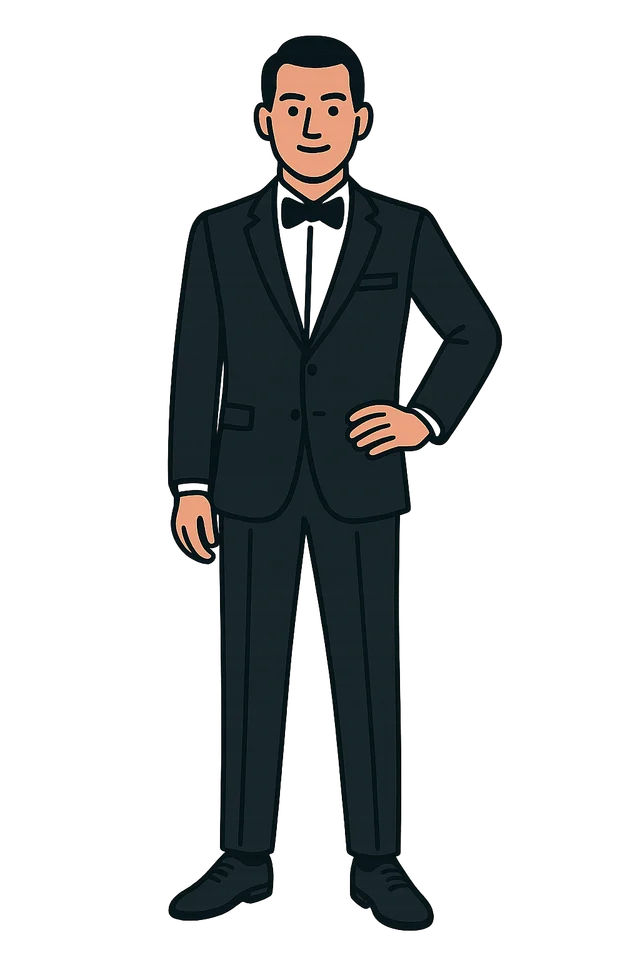
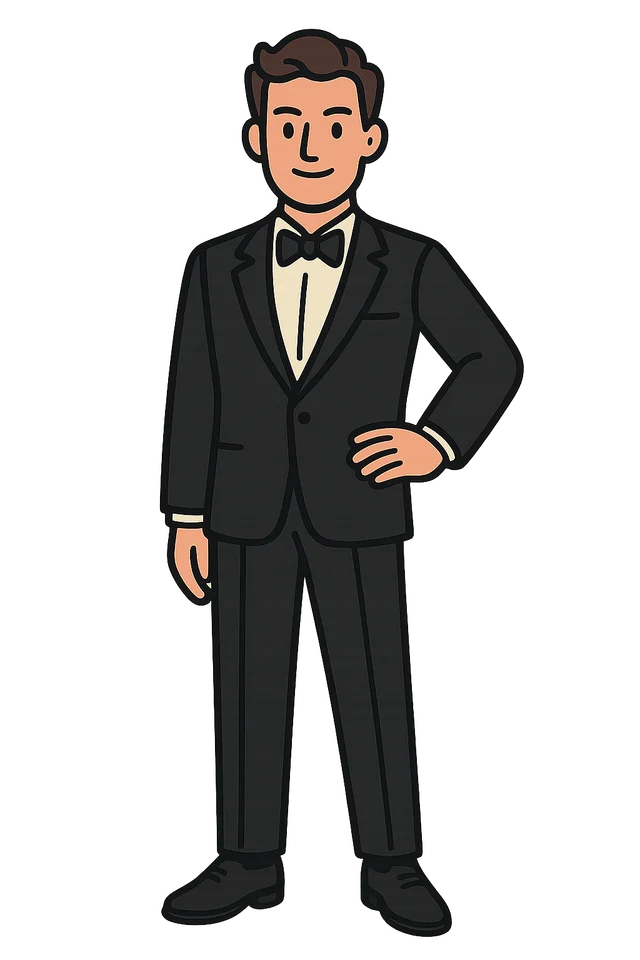
Maisons illustrees par IA + animaux de compagnie, corrige un bug de transparence
Suite du retour utilisateur : maisons dessinees a la main jugees
"trop simples" -> remplacees par des scenes completes generees par IA
(meme pipeline que les looks), richesse clairement croissante (rue
miteuse au dela -> chateau dore avec fontaines). Nouvelle categorie
"Animaux" (chien/chat/lapin/perroquet/dragon legendaire), affiches a
cote du personnage sans le cacher, comme demande explicitement.

Bug reel trouve en verifiant chaque image individuellement (pas
seulement composee dans l'app) : le mode "fond transparent" de
l'API rend aussi transparentes les zones blanches PURES du sujet
lui-meme (t-shirt blanc, chemise de costume, combinaison spatiale),
pas seulement l'arriere-plan - 4 looks sur 10 etaient casses,
invisibles une fois superposes a un fond colore. Corrige en evitant
le blanc pur dans les prompts (gris clair/creme a la place), regle
ajoutee au prompt commun pour les futures generations. Verifie objet
par objet en ouvrant chaque image seule sur fond sombre avant de
considerer le lot bon.

Changed region(s): [[0.25, 0.0312, 0.8438, 1.0], [0.7188, 0.2812, 0.75, 0.3125]]

diff --git a/src/content/shopItems.js b/src/content/shopItems.js
@@ -1,13 +1,13 @@
-// Boutique : looks complets (générés par IA, voir scripts/generate-looks.mjs) + maisons
-// (illustrations dessinées à la main, voir HouseIllustration.jsx). La richesse se montre par
-// le logement (le plus cher du jeu), pas par la tenue.
+// Boutique : looks complets, maisons, animaux de compagnie — tous générés une fois par IA (voir
+// scripts/generate-images.mjs). La richesse se montre par le logement (le plus cher du jeu).
 export const SHOP_CATEGORIES = [
   { key: 'look', label: 'Looks' },
   { key: 'maison', label: 'Maison' },
+  { key: 'pet', label: 'Animaux' },
 ]
 
 export const SHOP_ITEMS = [
-  // Looks (personnage complet, image statique générée une fois)
+  // Looks (personnage complet, fond transparent)
   { id: 'look_base', category: 'look', name: 'Look de base', price: 0, image: '/looks/look_base.webp' },
   { id: 'look_streetwear', category: 'look', name: 'Streetwear urbain', price: 200, image: '/looks/look_streetwear.webp' },
   { id: 'look_sportif', category: 'look', name: 'Sportif', price: 250, image: '/looks/look_sportif.webp' },
@@ -19,13 +19,21 @@ export const SHOP_ITEMS = [
   { id: 'look_royal', category: 'look', name: 'Royal', price: 1500, image: '/looks/look_royal.webp' },
   { id: 'look_legendaire', category: 'look', name: 'Légendaire doré', price: 3000, image: '/looks/look_legendaire.webp' },
 
-  // Maisons (arrière-plan, statut — illustration dans HouseIllustration.jsx)
-  { id: 'house_rue', category: 'maison', name: 'La rue', price: 0 },
-  { id: 'house_chambre', category: 'maison', name: 'Chambre chez un ami', price: 200 },
-  { id: 'house_studio', category: 'maison', name: 'Studio', price: 800 },
-  { id: 'house_appartement', category: 'maison', name: 'Appartement', price: 3000 },
-  { id: 'house_villa', category: 'maison', name: 'Villa', price: 10000 },
-  { id: 'house_chateau', category: 'maison', name: 'Château', price: 50000 },
+  // Maisons (scène complète, fond opaque, sert d'arrière-plan)
+  { id: 'house_rue', category: 'maison', name: 'La rue', price: 0, image: '/houses/house_rue.webp' },
+  { id: 'house_chambre', category: 'maison', name: 'Chambre chez un ami', price: 200, image: '/houses/house_chambre.webp' },
+  { id: 'house_studio', category: 'maison', name: 'Studio', price: 800, image: '/houses/house_studio.webp' },
+  { id: 'house_appartement', category: 'maison', name: 'Appartement', price: 3000, image: '/houses/house_appartement.webp' },
+  { id: 'house_villa', category: 'maison', name: 'Villa', price: 10000, image: '/houses/house_villa.webp' },
+  { id: 'house_chateau', category: 'maison', name: 'Château', price: 50000, image: '/houses/house_chateau.webp' },
+
+  // Animaux de compagnie (fond transparent, affiché à côté du personnage)
+  { id: 'pet_none', category: 'pet', name: 'Aucun', price: 0, image: null },
+  { id: 'pet_dog', category: 'pet', name: 'Chien', price: 200, image: '/pets/pet_dog.webp' },
+  { id: 'pet_cat', category: 'pet', name: 'Chat', price: 200, image: '/pets/pet_cat.webp' },
+  { id: 'pet_rabbit', category: 'pet', name: 'Lapin', price: 250, image: '/pets/pet_rabbit.webp' },
+  { id: 'pet_parrot', category: 'pet', name: 'Perroquet', price: 300, image: '/pets/pet_parrot.webp' },
+  { id: 'pet_dragon', category: 'pet', name: 'Dragon légendaire', price: 2000, image: '/pets/pet_dragon.webp' },
 ]
 
 export function defaultItem(category) {

diff --git a/src/Shop.jsx b/src/Shop.jsx
@@ -1,7 +1,6 @@
 import { useState } from 'react'
 import { SHOP_CATEGORIES, itemsForCategory, getEquipped } from './content/shopItems'
 import AvatarDisplay, { LookImage } from './AvatarDisplay'
-import HouseIllustration from './HouseIllustration'
 
 export default function Shop({ profile, onBuy, onEquip, onExit }) {
   const [category, setCategory] = useState('look')
@@ -33,10 +32,14 @@ export default function Shop({ profile, onBuy, onEquip, onExit }) {
             const canAfford = profile.coins >= item.price
             return (
               <div key={item.id} className="shop-item">
-                {category === 'look' ? (
+                {category === 'maison' ? (
+                  <div className="shop-item-swatch">
+                    {item.image && <img src={item.image} alt={item.name} className="shop-item-house" />}
+                  </div>
+                ) : item.image ? (
                   <LookImage look={item} size={56} />
                 ) : (
-                  <div className="shop-item-swatch"><HouseIllustration id={item.id} /></div>
+                  <div className="shop-item-swatch" />
                 )}
                 <p className="shop-item-name">{item.name}</p>
                 {!isOwned && <p className="shop-item-price">🪙 {item.price}</p>}
@@ -55,7 +58,7 @@ export default function Shop({ profile, onBuy, onEquip, onExit }) {
         </div>
         <button className="link" onClick={onExit}>Retour</button>
         <p className="shop-credit">
-          Looks générés par IA (OpenAI). Illustrations de maison dessinées pour Hablo.
+          Looks, maisons et animaux générés par IA (OpenAI).
         </p>
       </div>
     </div>

diff --git a/src/AvatarDisplay.jsx b/src/AvatarDisplay.jsx
@@ -1,5 +1,4 @@
 import { getEquipped } from './content/shopItems'
-import HouseIllustration from './HouseIllustration'
 
 export function LookImage({ look, size = 96 }) {
   return <img src={look.image} alt={look.name} className="avatar-image" style={{ height: size }} />
@@ -8,12 +7,14 @@ export function LookImage({ look, size = 96 }) {
 export default function AvatarDisplay({ profile }) {
   const look = getEquipped(profile, 'look')
   const maison = getEquipped(profile, 'maison')
+  const pet = getEquipped(profile, 'pet')
 
   return (
     <div className="avatar-display">
       <div className="avatar-frame">
-        <HouseIllustration id={maison.id} />
+        <img src={maison.image} alt={maison.name} className="house-photo" />
         <LookImage look={look} size={180} />
+        {pet.image && <img src={pet.image} alt={pet.name} className="pet-image" />}
       </div>
       <p className="avatar-house">{maison.name}</p>
     </div>

diff --git a/src/App.css b/src/App.css
@@ -250,11 +250,12 @@ button:disabled {
   overflow: hidden;
 }
 
-.house-svg {
+.house-photo {
   position: absolute;
   inset: 0;
   width: 100%;
   height: 100%;
+  object-fit: cover;
   display: block;
 }
 
@@ -266,8 +267,16 @@ button:disabled {
 .avatar-frame .avatar-image {
   position: absolute;
   bottom: 0;
-  left: 50%;
+  left: 42%;
   transform: translateX(-50%);
+}
+
+.pet-image {
+  position: absolute;
+  bottom: 6px;
+  right: 10px;
+  height: 70px;
+  display: block;
 }
 
 .avatar-house {
@@ -302,6 +311,14 @@ button:disabled {
   border-radius: 10px;
   overflow: hidden;
   margin: 0 auto 4px;
+  background: var(--border);
+}
+
+.shop-item-house {
+  width: 100%;
+  height: 100%;
+  object-fit: cover;
+  display: block;
 }
 
 .shop-item-name {
